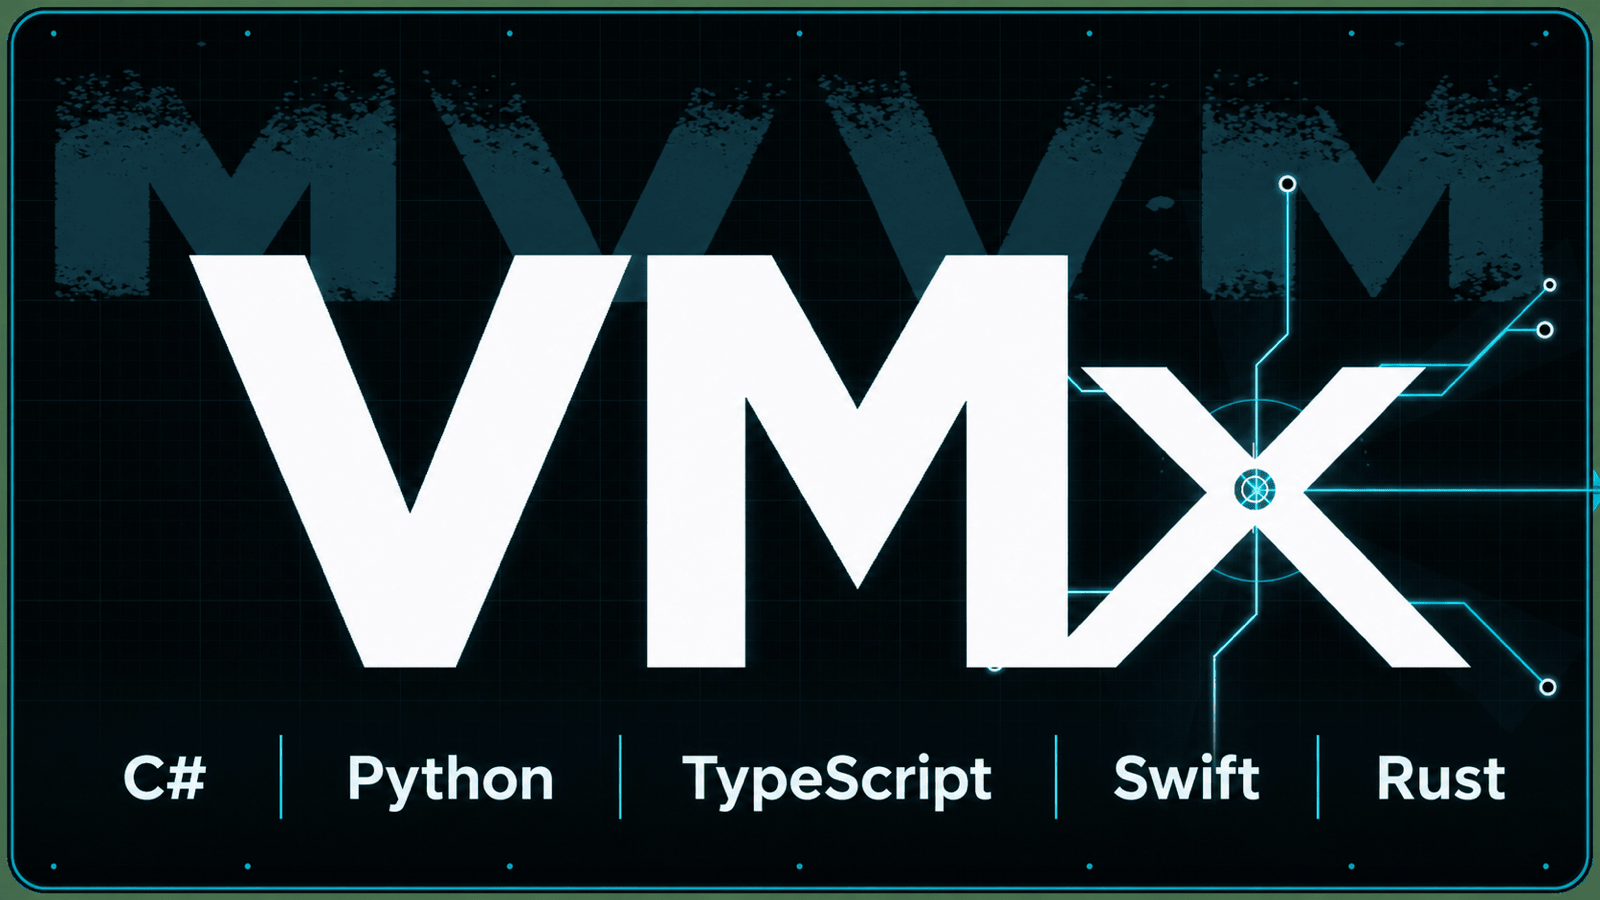
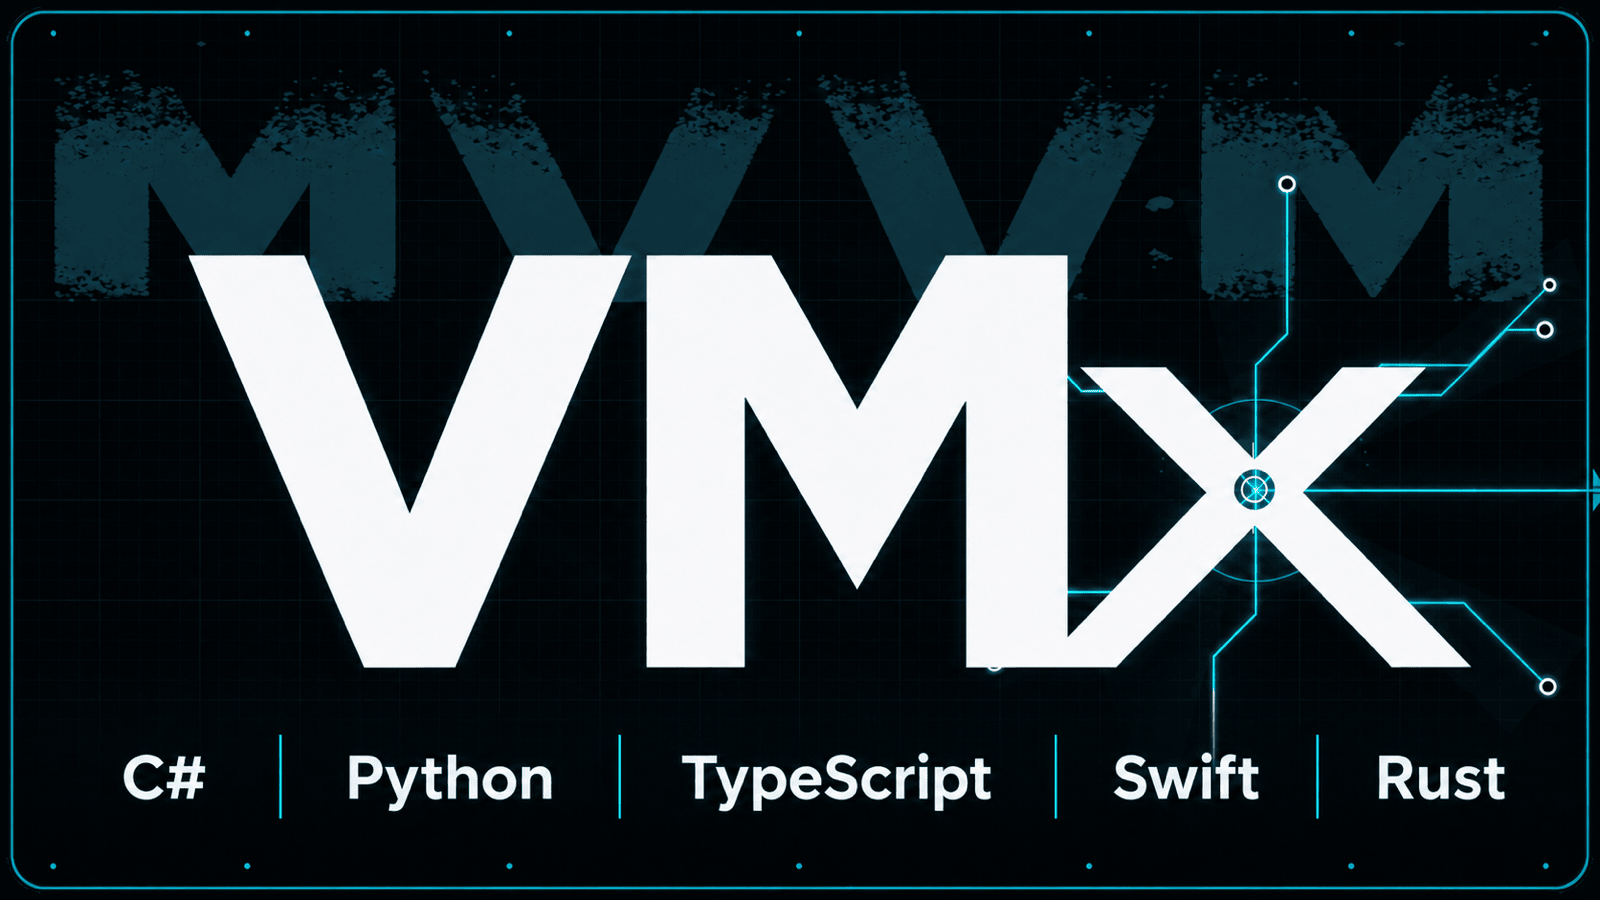
docs: polish project opener across surfaces (#246)
* docs: polish project opener across surfaces

* test: enforce opener presentation order

diff --git a/docs/content/stylesheets/extra.css b/docs/content/stylesheets/extra.css
@@ -39,6 +39,19 @@
   font-weight: 600;
 }
 
+.md-typeset h1[align="center"] {
+  margin-bottom: 0.75rem;
+  color: var(--md-default-fg-color);
+  font-size: 3rem;
+  font-weight: 700;
+  text-align: center;
+}
+
+.md-typeset p[align="center"] {
+  margin-right: auto;
+  margin-left: auto;
+}
+
 .md-header,
 .md-tabs {
   box-shadow: 0 1px 0 var(--vmx-border);

diff --git a/tests/docs/test_project_opening.py b/tests/docs/test_project_opening.py
@@ -1,9 +1,12 @@
 from __future__ import annotations
 
+import re
 import shutil
 from pathlib import Path
+from statistics import median
 
 import pytest
+from PIL import Image
 from scripts.docs import build_docs
 from scripts.docs.check_docs import check_project_opening
 from scripts.docs.manifest import load_manifest
@@ -18,6 +21,104 @@ def test_project_opening_matches_canonical_contract() -> None:
 
     assert 100 <= len(opener.summary.split()) <= 150
     assert check_project_opening(ROOT) == []
+
+
+@pytest.mark.parametrize(
+    ("relative_path", "title"),
+    [("README.md", "VMx"), ("docs/content/index.md", "1. VMx")],
+)
+def test_project_opening_uses_centered_poster_first_hierarchy(
+    relative_path: str,
+    title: str,
+) -> None:
+    opener = load_opener(ROOT / "docs/opener.yaml", ROOT)
+    markdown = (ROOT / relative_path).read_text(encoding="utf-8")
+
+    expected_parts = (
+        '<p align="center">\n  <img ',
+        f'<h1 align="center">{title}</h1>',
+        "<!-- vmx-opener:start -->",
+        f'<p align="center"><strong>{opener.tagline}</strong></p>',
+        f'<p align="center">{opener.summary}</p>',
+        "<!-- vmx-opener:end -->",
+    )
+    positions = [markdown.index(part) for part in expected_parts]
+
+    assert positions == sorted(positions)
+    assert positions[0] == 0
+
+
+def test_readme_centers_badge_groups_and_uses_unnumbered_contents() -> None:
+    readme = (ROOT / "README.md").read_text(encoding="utf-8")
+
+    expected_targets = {
+        "Language builds": (
+            "https://github.com/thekaveh/VMx/actions/workflows/csharp.yml",
+            "https://github.com/thekaveh/VMx/actions/workflows/python.yml",
+            "https://github.com/thekaveh/VMx/actions/workflows/typescript.yml",
+            "https://github.com/thekaveh/VMx/actions/workflows/swift.yml",
+            "https://github.com/thekaveh/VMx/actions/workflows/rust.yml",
+        ),
+        "Quality gates": (
+            "https://github.com/thekaveh/VMx/actions/workflows/conformance.yml",
+            "https://github.com/thekaveh/VMx/actions/workflows/spec-discipline.yml",
+            "https://github.com/thekaveh/VMx/actions/workflows/examples-contract-checks.yml",
+            "https://github.com/thekaveh/VMx/actions/workflows/docs.yml",
+            "https://github.com/thekaveh/VMx/actions/workflows/security-audit.yml",
+        ),
+        "Delivery": (
+            "https://github.com/thekaveh/VMx/actions/workflows/release.yml",
+            "LICENSE",
+        ),
+    }
+    for label, targets in expected_targets.items():
+        match = re.search(
+            rf'<p align="center">\n  <strong>{re.escape(label)}:</strong><br>(?P<badges>.*?)\n</p>',
+            readme,
+            re.DOTALL,
+        )
+        assert match is not None
+        assert re.findall(r'<a href="([^"]+)"><img ', match.group("badges")) == list(targets)
+    assert "## Contents" in readme
+    assert "## 0. Contents" not in readme
+
+
+def test_project_poster_has_dark_edge_to_edge_canvas() -> None:
+    with Image.open(ROOT / "assets/vmx-poster.png") as poster:
+        poster = poster.convert("RGB")
+        assert poster.size == (1600, 900)
+        width, height = poster.size
+        pixels = poster.load()
+        edge_pixels = [
+            *(pixels[x, 0] for x in range(width)),
+            *(pixels[x, height - 1] for x in range(width)),
+            *(pixels[0, y] for y in range(height)),
+            *(pixels[width - 1, y] for y in range(height)),
+        ]
+        band_width = 16
+        border_band = [
+            pixels[x, y]
+            for y in range(height)
+            for x in range(width)
+            if x < band_width
+            or x >= width - band_width
+            or y < band_width
+            or y >= height - band_width
+        ]
+        corners = [
+            pixels[0, 0],
+            pixels[width - 1, 0],
+            pixels[0, height - 1],
+            pixels[width - 1, height - 1],
+        ]
+    median_edge = tuple(median(pixel[channel] for pixel in edge_pixels) for channel in range(3))
+    olive_pixels = sum(
+        green >= 60 and green - red >= 20 and green - blue >= 15 for red, green, blue in border_band
+    )
+
+    assert max(max(pixel) for pixel in corners) <= 35
+    assert max(median_edge) <= 12
+    assert olive_pixels / len(border_band) < 0.01
 
 
 def test_project_opening_rejects_punctuation_only_drift(tmp_path: Path) -> None:
@@ -36,6 +137,30 @@ def test_project_opening_rejects_punctuation_only_drift(tmp_path: Path) -> None:
     findings = check_project_opening(tmp_path)
 
     assert any("canonical summary" in finding.message for finding in findings)
+
+
+def test_project_opening_rejects_reordered_centered_title(tmp_path: Path) -> None:
+    (tmp_path / "docs/content").mkdir(parents=True)
+    (tmp_path / "assets").mkdir()
+    shutil.copy2(ROOT / "docs/opener.yaml", tmp_path / "docs/opener.yaml")
+    shutil.copy2(ROOT / "README.md", tmp_path / "README.md")
+    shutil.copy2(ROOT / "docs/content/index.md", tmp_path / "docs/content/index.md")
+    shutil.copy2(ROOT / "assets/vmx-poster.png", tmp_path / "assets/vmx-poster.png")
+    landing_path = tmp_path / "docs/content/index.md"
+    landing = landing_path.read_text(encoding="utf-8")
+    title = '<h1 align="center">1. VMx</h1>\n\n'
+    landing_path.write_text(
+        landing.replace(title, "", 1).replace(
+            "<!-- vmx-opener:end -->",
+            f"<!-- vmx-opener:end -->\n\n{title.rstrip()}",
+            1,
+        ),
+        encoding="utf-8",
+    )
+
+    findings = check_project_opening(tmp_path)
+
+    assert any("ordered centered hero" in finding.message for finding in findings)
 
 
 @pytest.mark.parametrize("surface", ["site", "wiki"])

diff --git a/scripts/docs/check_docs.py b/scripts/docs/check_docs.py
@@ -134,11 +134,13 @@ def _normalized_opener_paragraphs(markdown: str) -> list[str]:
     if OPENER_START not in markdown or OPENER_END not in markdown:
         return []
     opening = markdown.split(OPENER_START, 1)[1].split(OPENER_END, 1)[0]
-    return [
-        " ".join(paragraph.split())
-        for paragraph in re.split(r"\n\s*\n", opening)
-        if paragraph.strip()
-    ]
+    paragraphs: list[str] = []
+    for paragraph in re.split(r"\n\s*\n", opening):
+        if not paragraph.strip():
+            continue
+        visible_text = html.unescape(re.sub(r"<[^>]+>", " ", paragraph))
+        paragraphs.append(" ".join(visible_text.split()))
+    return paragraphs
 
 
 def _has_canonical_poster(markdown: str, expected_source: str, expected_alt: str) -> bool:
@@ -163,7 +165,11 @@ def check_project_opening(repo_root: Path) -> list[Finding]:
         return [Finding("error", str(error))]
 
     expected_paragraphs = [opener.tagline, opener.summary]
-    for relative in (Path("README.md"), Path("docs/content/index.md")):
+    surfaces = (
+        (Path("README.md"), "VMx"),
+        (Path("docs/content/index.md"), "1. VMx"),
+    )
+    for relative, title in surfaces:
         path = repo_root / relative
         markdown = path.read_text(encoding="utf-8")
         if _normalized_opener_paragraphs(markdown) != expected_paragraphs:
@@ -179,6 +185,27 @@ def check_project_opening(repo_root: Path) -> list[Finding]:
                 Finding(
                     "error",
                     f"{relative}: canonical project poster is missing or inconsistent",
+                )
+            )
+        poster_tag = f'<img src="{expected_source}" alt="{opener.poster_alt}" width="100%">'
+        expected_prefix = f'<p align="center">\n  {poster_tag}\n</p>'
+        centered_tagline = f'<p align="center"><strong>{opener.tagline}</strong></p>'
+        centered_summary = f'<p align="center">{opener.summary}</p>'
+        expected_hero = "\n\n".join(
+            (
+                expected_prefix,
+                f'<h1 align="center">{title}</h1>',
+                OPENER_START,
+                centered_tagline,
+                centered_summary,
+                OPENER_END,
+            )
+        )
+        if not markdown.startswith(expected_hero):
+            findings.append(
+                Finding(
+                    "error",
+                    f"{relative}: ordered centered hero differs from the canonical contract",
                 )
             )
     return findings
@@ -476,11 +503,16 @@ def check_raw_html_headings(repo_root: Path) -> list[Finding]:
         text = _without_fenced_code(path.read_text(encoding="utf-8"))
         for line_number, line in enumerate(text.splitlines(), start=1):
             if HTML_HEADING_RE.search(line):
+                relative = path.relative_to(repo_root)
+                if (
+                    relative == Path("docs/content/index.md")
+                    and line == '<h1 align="center">1. VMx</h1>'
+                ):
+                    continue
                 findings.append(
                     Finding(
                         "error",
-                        f"{path.relative_to(repo_root)}:{line_number}: "
-                        "raw HTML heading bypasses hierarchy checks",
+                        f"{relative}:{line_number}: raw HTML heading bypasses hierarchy checks",
                     )
                 )
     return findings
@@ -554,13 +586,25 @@ def check_heading_numbers(repo_root: Path) -> list[Finding]:
         assert section.source is not None
         path = repo_root / section.source
         text = path.read_text(encoding="utf-8")
-        first_line = MD_ESCAPE_RE.sub(r"\1", text.splitlines()[0].strip())
-        expected = f"# {section.label}"
-        if first_line != expected:
+        expected_markdown = f"# {section.label}"
+        if section.source == Path("docs/content/index.md"):
+            first_heading = next(
+                (
+                    line.strip()
+                    for line in text.splitlines()
+                    if line.startswith("# ") or HTML_HEADING_RE.search(line)
+                ),
+                "",
+            )
+            expected_heading = f'<h1 align="center">{section.label}</h1>'
+        else:
+            first_heading = MD_ESCAPE_RE.sub(r"\1", text.splitlines()[0].strip())
+            expected_heading = expected_markdown
+        if first_heading != expected_heading:
             findings.append(
                 Finding(
                     "error",
-                    f"{section.source}: expected H1 {expected!r}, found {first_line!r}",
+                    f"{section.source}: expected H1 {expected_heading!r}, found {first_heading!r}",
                 )
             )
         findings.extend(_check_descendant_heading_numbers(text, section.number, section.source))

diff --git a/tests/docs/test_three_surface_docs.py b/tests/docs/test_three_surface_docs.py
@@ -314,6 +314,14 @@ def test_canonical_docs_reject_raw_html_heading_elements(tmp_path: Path) -> None
     assert "raw HTML heading" in findings[0].message
 
 
+def test_canonical_landing_allows_exact_centered_h1(tmp_path: Path) -> None:
+    page = tmp_path / "docs/content/index.md"
+    page.parent.mkdir(parents=True)
+    page.write_text('<h1 align="center">1. VMx</h1>\n', encoding="utf-8")
+
+    assert check_raw_html_headings(tmp_path) == []
+
+
 def test_repo_surface_markdown_rejects_decorative_status_icons(tmp_path: Path) -> None:
     (tmp_path / "README.md").write_text("Supported: ✓\n", encoding="utf-8")
 

diff --git a/README.md b/README.md
@@ -1,46 +1,42 @@
-# VMx
+<p align="center">
+  <img src="assets/vmx-poster.png" alt="VMx framework across C#, Python, TypeScript, Swift, and Rust" width="100%">
+</p>
 
-<img src="assets/vmx-poster.png" alt="VMx framework across C#, Python, TypeScript, Swift, and Rust" width="100%">
+<h1 align="center">VMx</h1>
 
 <!-- vmx-opener:start -->
 
-One specification. Five idiomatic flavors. Predictable MVVM behavior across UI stacks.
+<p align="center"><strong>One specification. Five idiomatic flavors. Predictable MVVM behavior across UI stacks.</strong></p>
 
-VMx is a UI-neutral, lifecycle-aware MVVM viewmodel framework for building
-hierarchical application state with explicit construction, destruction,
-disposal, reactive messaging, commands, collections, and composable services.
-One language-neutral specification defines observable behavior, while five
-source flavors—C#, Python, TypeScript, Swift, and Rust—preserve each ecosystem’s
-naming, type, concurrency, and package conventions. A shared conformance catalog
-keeps those implementations aligned without erasing idiomatic APIs. The source
-tree currently carries complete 403-ID library coverage in every flavor, with
-flagship hosts exercising five additional THEME scenarios. Swift is publicly
-available through SwiftPM; Python’s public package trails the source line, and
-the C#, TypeScript, and Rust registry channels are prepared but not yet
-published. VMx therefore separates source completeness from installable-release
-status and documents both explicitly.
+<p align="center">VMx is a UI-neutral, lifecycle-aware MVVM viewmodel framework for building hierarchical application state with explicit construction, destruction, disposal, reactive messaging, commands, collections, and composable services. One language-neutral specification defines observable behavior, while five source flavors—C#, Python, TypeScript, Swift, and Rust—preserve each ecosystem’s naming, type, concurrency, and package conventions. A shared conformance catalog keeps those implementations aligned without erasing idiomatic APIs. The source tree currently carries complete 403-ID library coverage in every flavor, with flagship hosts exercising five additional THEME scenarios. Swift is publicly available through SwiftPM; Python’s public package trails the source line, and the C#, TypeScript, and Rust registry channels are prepared but not yet published. VMx therefore separates source completeness from installable-release status and documents both explicitly.</p>
 
 <!-- vmx-opener:end -->
 
-**Language builds:**
-[![C#](https://github.com/thekaveh/VMx/actions/workflows/csharp.yml/badge.svg?branch=develop)](https://github.com/thekaveh/VMx/actions/workflows/csharp.yml)
-[![Python](https://github.com/thekaveh/VMx/actions/workflows/python.yml/badge.svg?branch=develop)](https://github.com/thekaveh/VMx/actions/workflows/python.yml)
-[![TypeScript](https://github.com/thekaveh/VMx/actions/workflows/typescript.yml/badge.svg?branch=develop)](https://github.com/thekaveh/VMx/actions/workflows/typescript.yml)
-[![Swift](https://github.com/thekaveh/VMx/actions/workflows/swift.yml/badge.svg?branch=develop)](https://github.com/thekaveh/VMx/actions/workflows/swift.yml)
-[![Rust](https://github.com/thekaveh/VMx/actions/workflows/rust.yml/badge.svg?branch=develop)](https://github.com/thekaveh/VMx/actions/workflows/rust.yml)
+<p align="center">
+  <strong>Language builds:</strong><br>
+  <a href="https://github.com/thekaveh/VMx/actions/workflows/csharp.yml"><img src="https://github.com/thekaveh/VMx/actions/workflows/csharp.yml/badge.svg?branch=develop" alt="C#"></a>
+  <a href="https://github.com/thekaveh/VMx/actions/workflows/python.yml"><img src="https://github.com/thekaveh/VMx/actions/workflows/python.yml/badge.svg?branch=develop" alt="Python"></a>
+  <a href="https://github.com/thekaveh/VMx/actions/workflows/typescript.yml"><img src="https://github.com/thekaveh/VMx/actions/workflows/typescript.yml/badge.svg?branch=develop" alt="TypeScript"></a>
+  <a href="https://github.com/thekaveh/VMx/actions/workflows/swift.yml"><img src="https://github.com/thekaveh/VMx/actions/workflows/swift.yml/badge.svg?branch=develop" alt="Swift"></a>
+  <a href="https://github.com/thekaveh/VMx/actions/workflows/rust.yml"><img src="https://github.com/thekaveh/VMx/actions/workflows/rust.yml/badge.svg?branch=develop" alt="Rust"></a>
+</p>
 
-**Quality gates:**
-[![Conformance](https://github.com/thekaveh/VMx/actions/workflows/conformance.yml/badge.svg?branch=develop)](https://github.com/thekaveh/VMx/actions/workflows/conformance.yml)
-[![Spec discipline](https://github.com/thekaveh/VMx/actions/workflows/spec-discipline.yml/badge.svg?branch=develop)](https://github.com/thekaveh/VMx/actions/workflows/spec-discipline.yml)
-[![Examples](https://github.com/thekaveh/VMx/actions/workflows/examples-contract-checks.yml/badge.svg?branch=develop)](https://github.com/thekaveh/VMx/actions/workflows/examples-contract-checks.yml)
-[![Documentation](https://github.com/thekaveh/VMx/actions/workflows/docs.yml/badge.svg?branch=develop)](https://github.com/thekaveh/VMx/actions/workflows/docs.yml)
-[![Security audit](https://github.com/thekaveh/VMx/actions/workflows/security-audit.yml/badge.svg?branch=develop)](https://github.com/thekaveh/VMx/actions/workflows/security-audit.yml)
+<p align="center">
+  <strong>Quality gates:</strong><br>
+  <a href="https://github.com/thekaveh/VMx/actions/workflows/conformance.yml"><img src="https://github.com/thekaveh/VMx/actions/workflows/conformance.yml/badge.svg?branch=develop" alt="Conformance"></a>
+  <a href="https://github.com/thekaveh/VMx/actions/workflows/spec-discipline.yml"><img src="https://github.com/thekaveh/VMx/actions/workflows/spec-discipline.yml/badge.svg?branch=develop" alt="Spec discipline"></a>
+  <a href="https://github.com/thekaveh/VMx/actions/workflows/examples-contract-checks.yml"><img src="https://github.com/thekaveh/VMx/actions/workflows/examples-contract-checks.yml/badge.svg?branch=develop" alt="Examples"></a>
+  <a href="https://github.com/thekaveh/VMx/actions/workflows/docs.yml"><img src="https://github.com/thekaveh/VMx/actions/workflows/docs.yml/badge.svg?branch=develop" alt="Documentation"></a>
+  <a href="https://github.com/thekaveh/VMx/actions/workflows/security-audit.yml"><img src="https://github.com/thekaveh/VMx/actions/workflows/security-audit.yml/badge.svg?branch=develop" alt="Security audit"></a>
+</p>
 
-**Delivery:**
-[![Release workflow](https://github.com/thekaveh/VMx/actions/workflows/release.yml/badge.svg)](https://github.com/thekaveh/VMx/actions/workflows/release.yml)
-[![License: Apache 2.0](https://img.shields.io/badge/License-Apache_2.0-blue.svg)](LICENSE)
+<p align="center">
+  <strong>Delivery:</strong><br>
+  <a href="https://github.com/thekaveh/VMx/actions/workflows/release.yml"><img src="https://github.com/thekaveh/VMx/actions/workflows/release.yml/badge.svg" alt="Release workflow"></a>
+  <a href="LICENSE"><img src="https://img.shields.io/badge/License-Apache_2.0-blue.svg" alt="License: Apache 2.0"></a>
+</p>
 
-## 0. Contents
+## Contents
 
 1. [Overview](#1-overview)
 1. [Architecture](#2-architecture)

diff --git a/docs/content/index.md b/docs/content/index.md
@@ -1,24 +1,14 @@
-# 1. VMx
+<p align="center">
+  <img src="../../assets/vmx-poster.png" alt="VMx framework across C#, Python, TypeScript, Swift, and Rust" width="100%">
+</p>
 
-<img src="../../assets/vmx-poster.png" alt="VMx framework across C#, Python, TypeScript, Swift, and Rust" width="100%">
+<h1 align="center">1. VMx</h1>
 
 <!-- vmx-opener:start -->
 
-One specification. Five idiomatic flavors. Predictable MVVM behavior across UI stacks.
+<p align="center"><strong>One specification. Five idiomatic flavors. Predictable MVVM behavior across UI stacks.</strong></p>
 
-VMx is a UI-neutral, lifecycle-aware MVVM viewmodel framework for building
-hierarchical application state with explicit construction, destruction,
-disposal, reactive messaging, commands, collections, and composable services.
-One language-neutral specification defines observable behavior, while five
-source flavors—C#, Python, TypeScript, Swift, and Rust—preserve each ecosystem’s
-naming, type, concurrency, and package conventions. A shared conformance catalog
-keeps those implementations aligned without erasing idiomatic APIs. The source
-tree currently carries complete 403-ID library coverage in every flavor, with
-flagship hosts exercising five additional THEME scenarios. Swift is publicly
-available through SwiftPM; Python’s public package trails the source line, and
-the C#, TypeScript, and Rust registry channels are prepared but not yet
-published. VMx therefore separates source completeness from installable-release
-status and documents both explicitly.
+<p align="center">VMx is a UI-neutral, lifecycle-aware MVVM viewmodel framework for building hierarchical application state with explicit construction, destruction, disposal, reactive messaging, commands, collections, and composable services. One language-neutral specification defines observable behavior, while five source flavors—C#, Python, TypeScript, Swift, and Rust—preserve each ecosystem’s naming, type, concurrency, and package conventions. A shared conformance catalog keeps those implementations aligned without erasing idiomatic APIs. The source tree currently carries complete 403-ID library coverage in every flavor, with flagship hosts exercising five additional THEME scenarios. Swift is publicly available through SwiftPM; Python’s public package trails the source line, and the C#, TypeScript, and Rust registry channels are prepared but not yet published. VMx therefore separates source completeness from installable-release status and documents both explicitly.</p>
 
 <!-- vmx-opener:end -->
 
